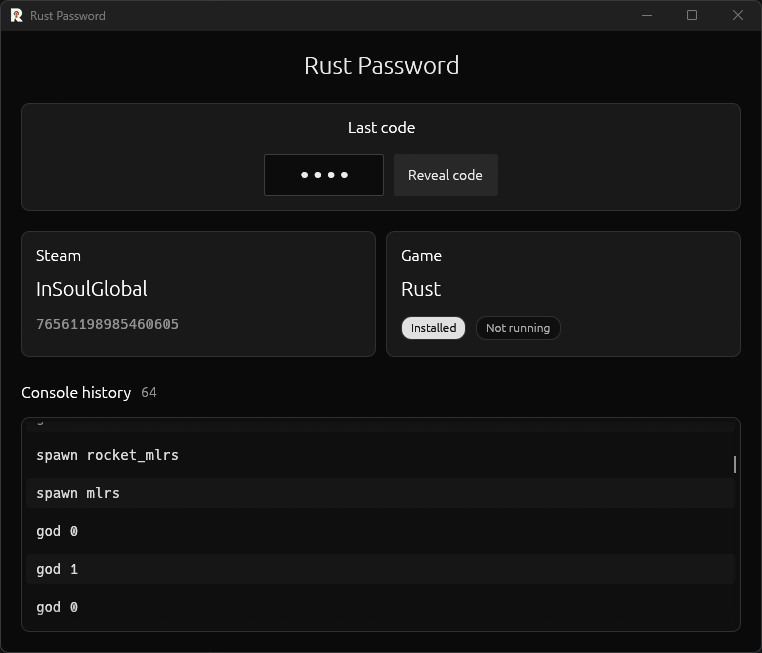
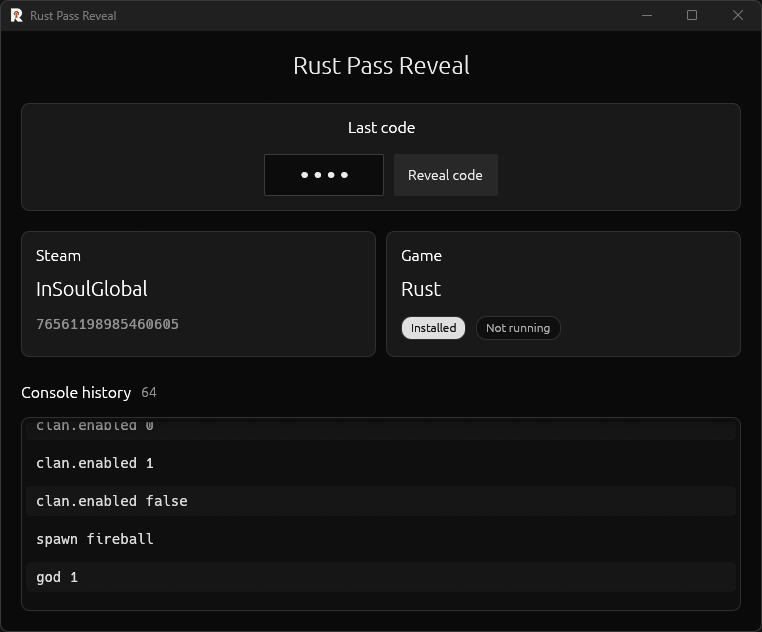
feat: update product name to "Rust Pass Reveal" and version to 0.1.1; adjust dependencies and imports

diff --git a/build.rs b/build.rs
@@ -1,7 +1,7 @@
 //! Embeds Windows branding and version information in the executable.
 
-const PRODUCT: &str = "Rust Password";
-const DESCRIPTION: &str = "Rust registry and Steam status viewer";
+const PRODUCT: &str = "Rust Pass Reveal";
+const DESCRIPTION: &str = "Rust game Codelock Revealer.";
 const COMPANY: &str = ".insoulglobal";
 const COPYRIGHT: &str = "Copyright © 2026 .insoulglobal";
 const EXE_NAME: &str = "rust-password.exe";

diff --git a/src/ui/view.rs b/src/ui/view.rs
@@ -7,7 +7,7 @@ pub fn scan(ui: &mut egui::Ui, error: Option<&str>) -> bool {
     let mut scan = false;
     ui.centered_and_justified(|ui| {
         ui.vertical_centered(|ui| {
-            ui.heading("Rust Password");
+            ui.heading("Rust Pass Reveal");
             ui.add_space(18.0);
             if let Some(error) = error {
                 ui.colored_label(ui.visuals().error_fg_color, error);
@@ -29,7 +29,7 @@ pub fn scan(ui: &mut egui::Ui, error: Option<&str>) -> bool {
 
 pub fn content(ui: &mut egui::Ui, data: &Data, reveal: &mut bool) {
     ui.vertical_centered(|ui| {
-        ui.heading("Rust Password");
+        ui.heading("Rust Pass Reveal");
     });
     ui.add_space(16.0);
     code(ui, &data.last_code, reveal);

diff --git a/branding.rs b/branding.rs
@@ -1,4 +1,4 @@
-pub const PRODUCT: &str = "Rust Password";
+pub const PRODUCT: &str = "Rust Pass Reveal";
 
 pub const ICON_SIZE: u32 = 32;
 